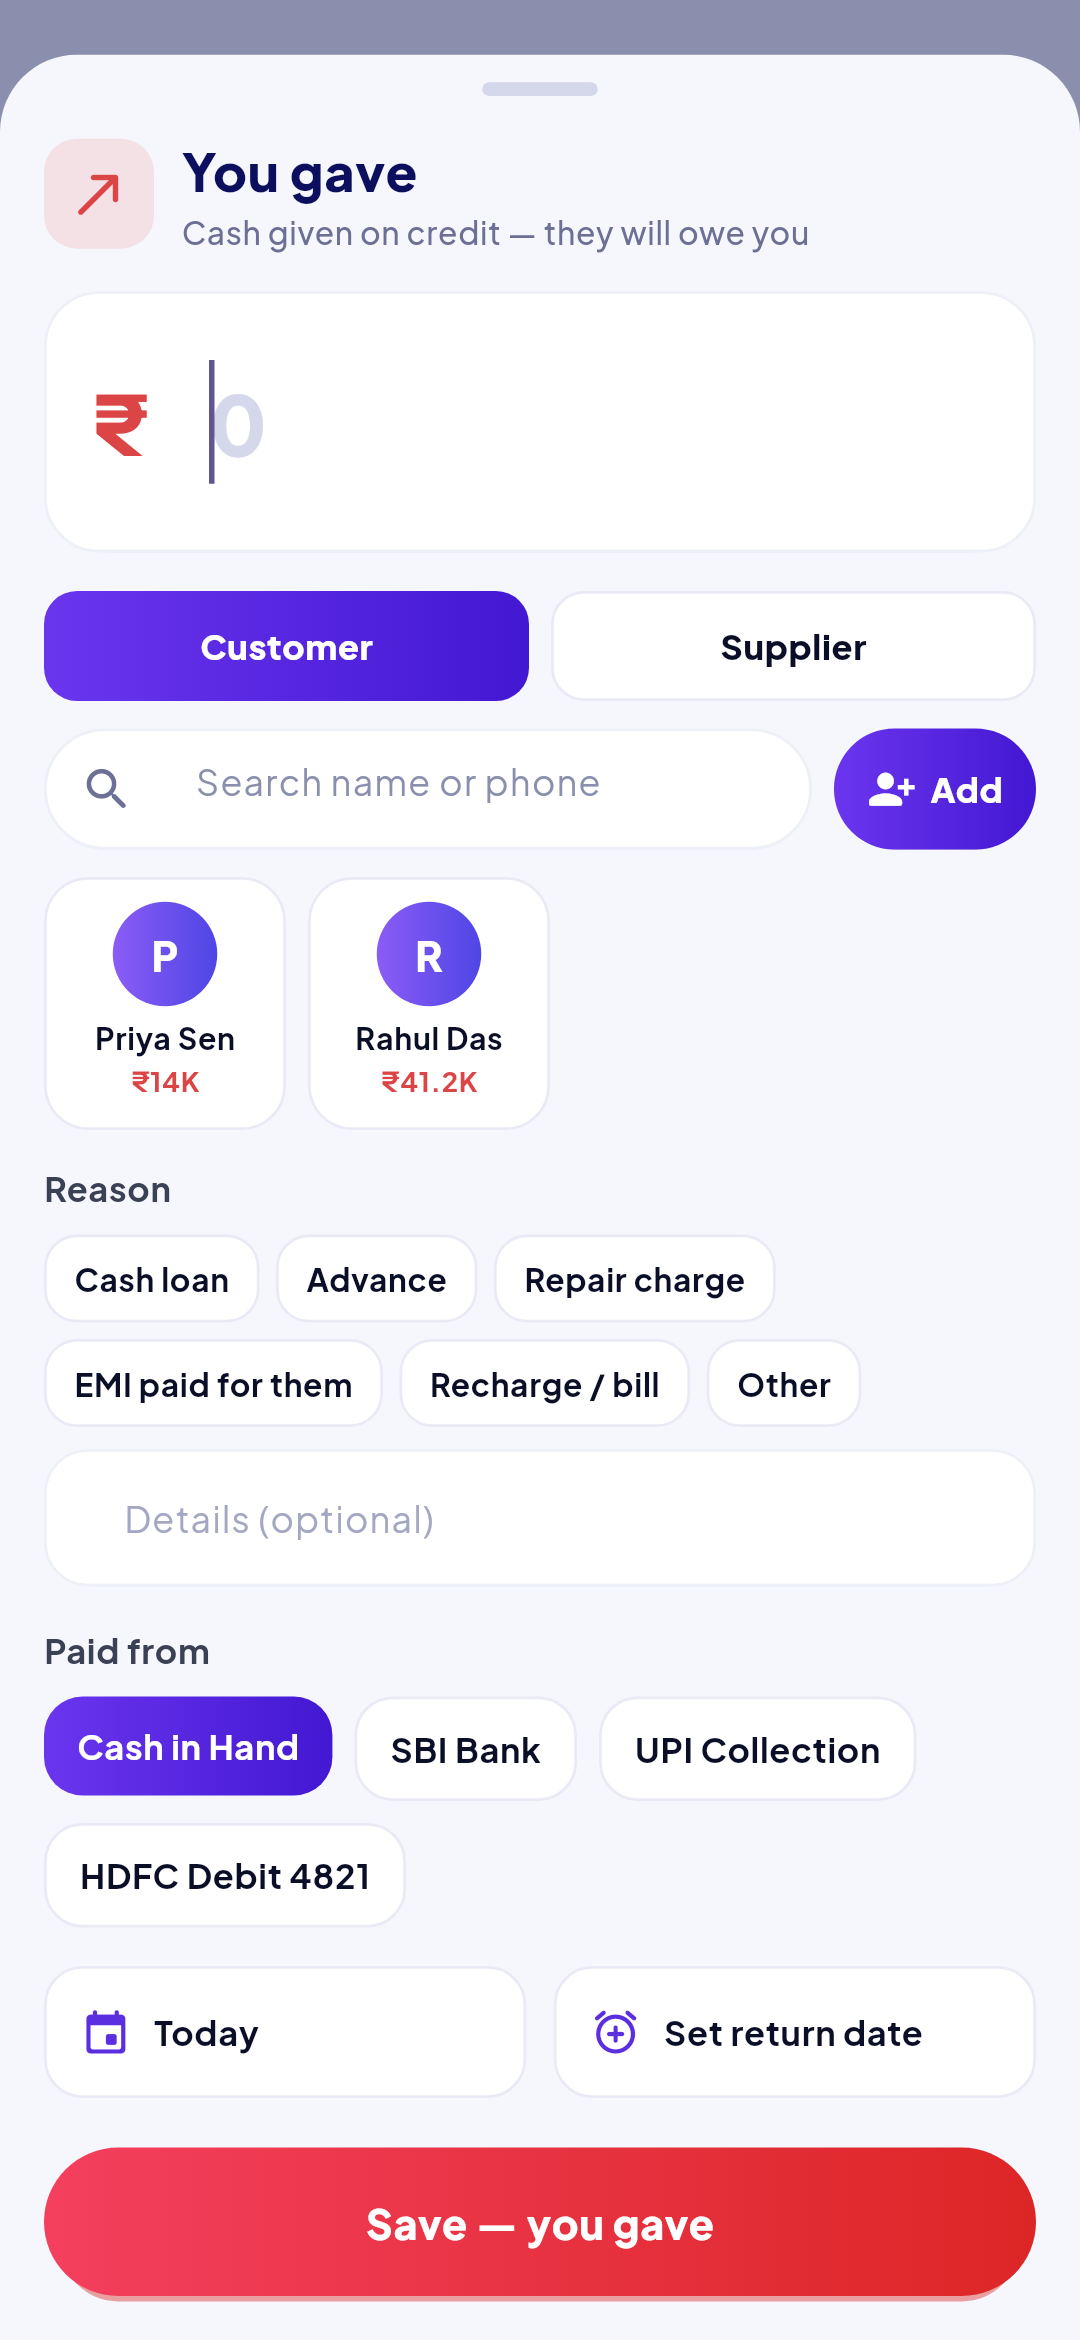
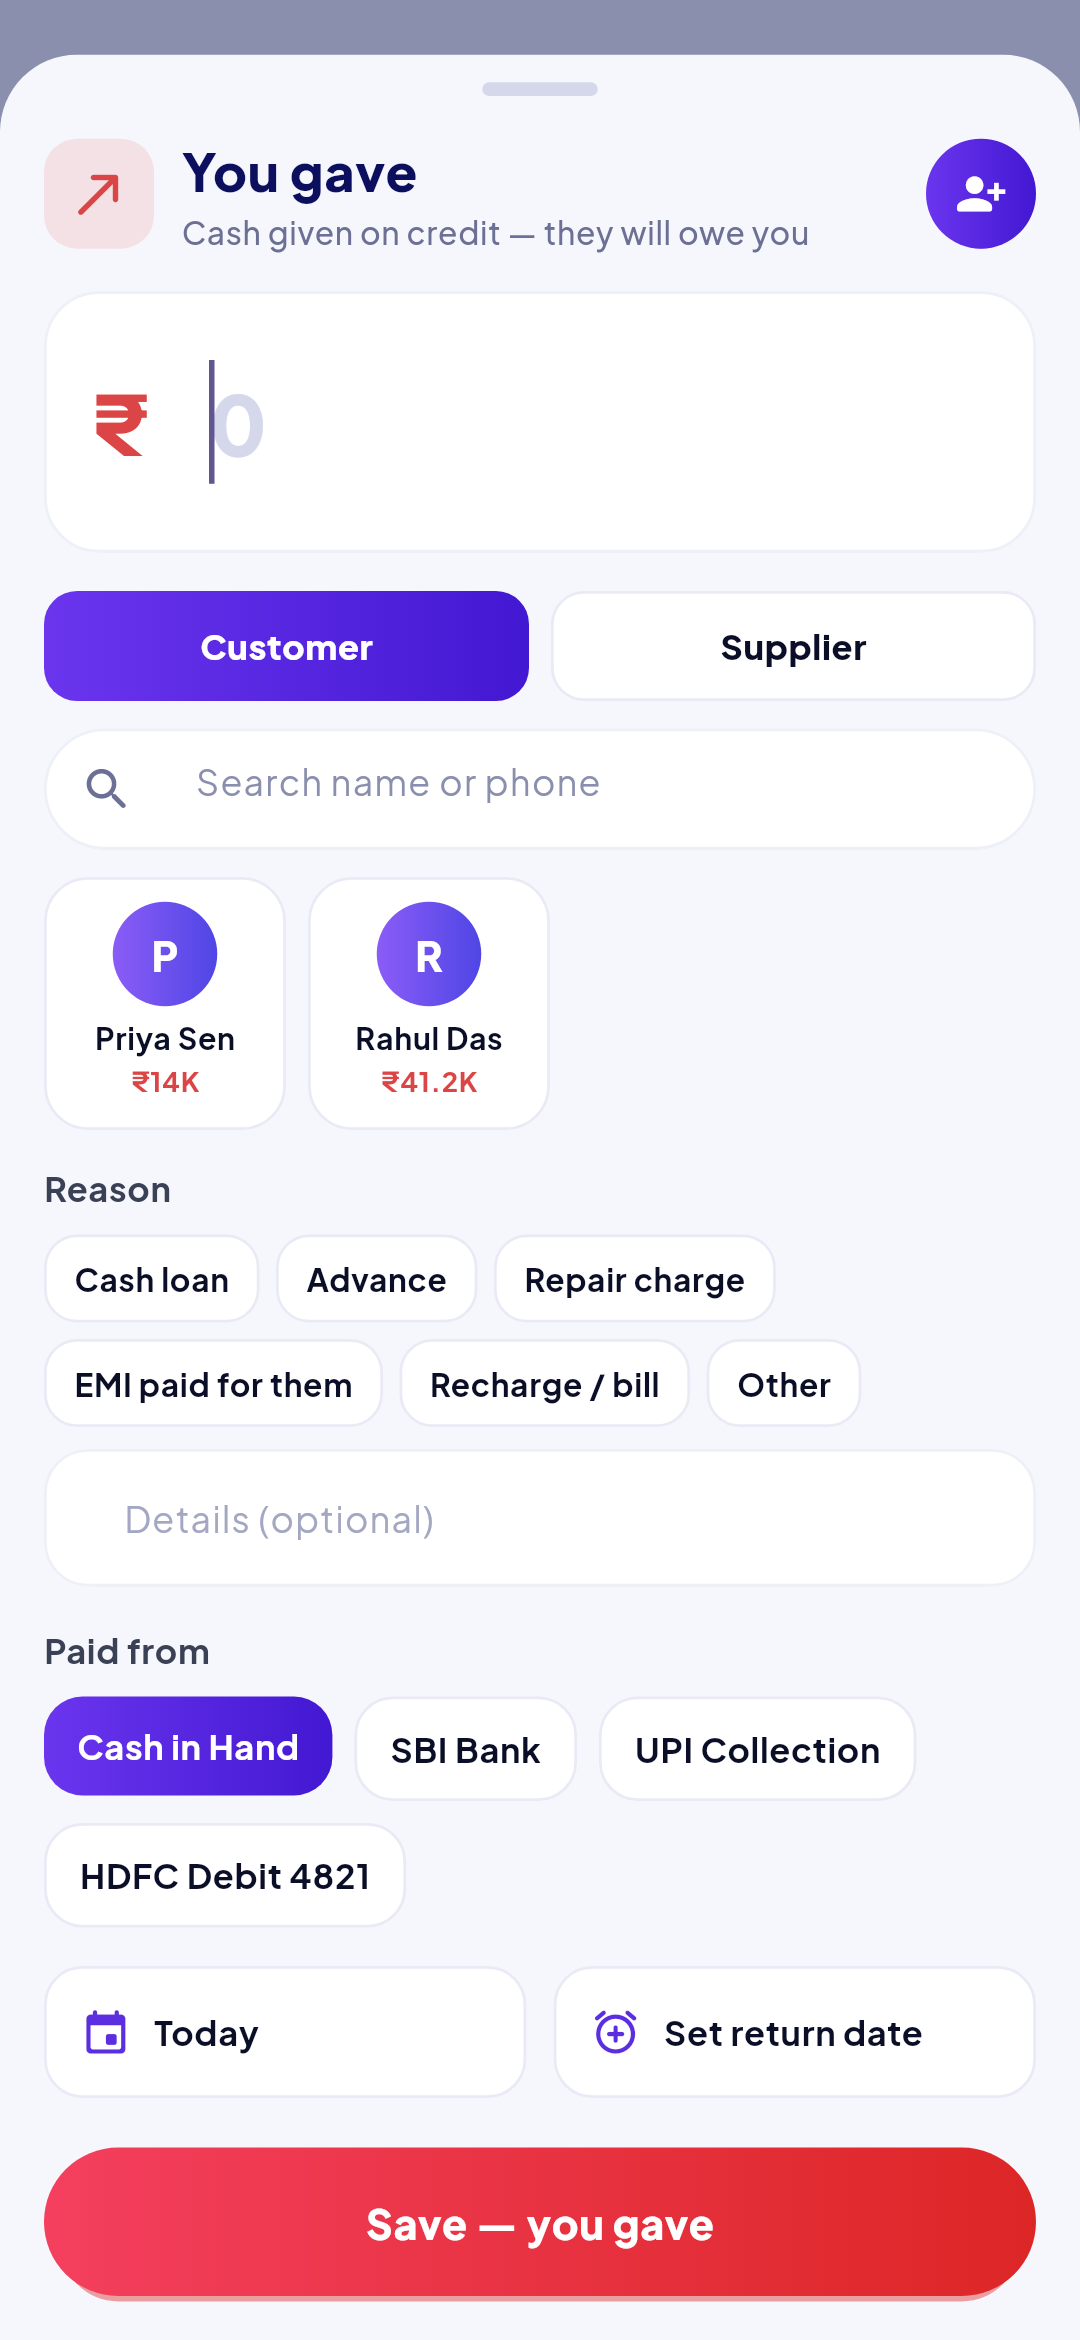
Add customer: small round button at the top right of Khata and You gave / You got; search boxes back to full width
Claude-Session: https://claude.ai/code/session_01TPz7VGxGWhSYt9uz1YHRun

Changed region(s): [[0.7639, 0.312, 0.9778, 0.3744], [0.8556, 0.0624, 0.9778, 0.1248]]

diff --git a/lib/screens/lend_sheet.dart b/lib/screens/lend_sheet.dart
@@ -156,50 +156,17 @@ class _LendSheetState extends State<LendSheet> {
     super.dispose();
   }
 
-  /// Quick add: name + mobile; an existing one with the same name and number
-  /// is picked instead of making a copy.
+  /// Add a customer / supplier without leaving this sheet; it is selected.
   Future<void> _addParty() async {
-    final isC = partyType == 'customer';
-    final name = TextEditingController(text: RegExp(r'\d').hasMatch(q) ? '' : q);
-    final phone = TextEditingController(text: RegExp(r'^[\d\s+]+$').hasMatch(q) ? q : '');
-    final ok = await showDialog<bool>(
-      context: context,
-      builder: (c) => AlertDialog(
-        title: Text(isC ? 'New customer' : 'New supplier'),
-        content: Column(mainAxisSize: MainAxisSize.min, children: [
-          TextField(controller: name, autofocus: true, textCapitalization: TextCapitalization.words, decoration: const InputDecoration(labelText: 'Name')),
-          const SizedBox(height: 8),
-          TextField(controller: phone, keyboardType: TextInputType.phone, decoration: const InputDecoration(labelText: 'Mobile (optional)')),
-        ]),
-        actions: [
-          TextButton(onPressed: () => Navigator.pop(c, false), child: const Text('Cancel')),
-          FilledButton(onPressed: () => Navigator.pop(c, true), child: const Text('Save')),
-        ],
-      ),
-    );
-    final n = name.text.trim(), ph = phone.text.replaceAll(RegExp(r'[^\d+]'), '');
-    name.dispose();
-    phone.dispose();
-    if (ok != true || !mounted) return;
-    if (n.isEmpty) {
-      toast(context, 'Enter the name', error: true);
-      return;
-    }
-    try {
-      final dup = await Books.findDuplicateParty(partyType, n, ph);
-      final id = dup != null ? asInt(dup['id']) : await Books.saveParty(partyType, {'name': n, 'phone': ph.isEmpty ? null : ph});
-      await _load();
-      if (!mounted) return;
-      final shown = dup != null ? '${dup['name']}' : n;
-      setState(() {
-        partyId = id;
-        q = shown; // the new one shows, selected
-        search.text = shown;
-      });
-      toast(context, dup != null ? '${dup['name']} is already added — selected' : '$n added');
-    } catch (e) {
-      if (mounted) toast(context, '$e', error: true);
-    }
+    final r = await quickAddParty(context, partyType, typed: q);
+    if (r == null || !mounted) return;
+    await _load();
+    if (!mounted) return;
+    setState(() {
+      partyId = r.$1;
+      q = r.$2; // the new one shows, selected
+      search.text = r.$2;
+    });
   }
 
   Rec? get _party {
@@ -290,6 +257,7 @@ class _LendSheetState extends State<LendSheet> {
                   Text(gave ? 'Cash given on credit — they will owe you' : 'Cash received — their due goes down', style: _j(11.5, FontWeight.w500, _muted)),
                 ]),
               ),
+              if (widget.partyId == null) AddCustomerButton(onTap: _addParty, tooltip: partyType == 'customer' ? 'Add customer' : 'Add supplier'),
             ]),
             const SizedBox(height: 14),
             _amountField(amount, _color),
@@ -321,54 +289,31 @@ class _LendSheetState extends State<LendSheet> {
                 ],
               ]),
               const SizedBox(height: 10),
-              Row(children: [
-                Expanded(
-                  child: Container(
-                    height: 44,
-                    padding: const EdgeInsets.symmetric(horizontal: 12),
-                    decoration: _card(r: 22),
-                    child: Row(children: [
-                      const Icon(Icons.search_rounded, color: _muted, size: 20),
-                      const SizedBox(width: 8),
-                      Expanded(
-                        child: TextField(
-                          controller: search,
-                          onChanged: (v) => setState(() => q = v.trim()),
-                          style: _j(13.5, FontWeight.w600, _ink),
-                          decoration: InputDecoration(
-                            isCollapsed: true,
-                            filled: false,
-                            border: InputBorder.none,
-                            enabledBorder: InputBorder.none,
-                            focusedBorder: InputBorder.none,
-                            hintText: 'Search name or phone',
-                            hintStyle: _j(13, FontWeight.w400, const Color(0xFF8A8FAD)),
-                          ),
-                        ),
+              Container(
+                height: 44,
+                padding: const EdgeInsets.symmetric(horizontal: 12),
+                decoration: _card(r: 22),
+                child: Row(children: [
+                  const Icon(Icons.search_rounded, color: _muted, size: 20),
+                  const SizedBox(width: 8),
+                  Expanded(
+                    child: TextField(
+                      controller: search,
+                      onChanged: (v) => setState(() => q = v.trim()),
+                      style: _j(13.5, FontWeight.w600, _ink),
+                      decoration: InputDecoration(
+                        isCollapsed: true,
+                        filled: false,
+                        border: InputBorder.none,
+                        enabledBorder: InputBorder.none,
+                        focusedBorder: InputBorder.none,
+                        hintText: 'Search name or phone',
+                        hintStyle: _j(13, FontWeight.w400, const Color(0xFF8A8FAD)),
                       ),
-                    ]),
-                  ),
-                ),
-                const SizedBox(width: 8),
-                // add a new customer / supplier without leaving this sheet
-                GestureDetector(
-                  onTap: _addParty,
-                  child: Container(
-                    height: 44,
-                    padding: const EdgeInsets.symmetric(horizontal: 12),
-                    decoration: BoxDecoration(
-                      borderRadius: BorderRadius.circular(22),
-                      gradient: const LinearGradient(colors: [Color(0xFF6B35EE), Color(0xFF4318D2)]),
-                      boxShadow: const [BoxShadow(color: Color(0x554318D2), blurRadius: 14, offset: Offset(0, 6), spreadRadius: -6)],
                     ),
-                    child: Row(mainAxisSize: MainAxisSize.min, children: [
-                      const Icon(Icons.person_add_alt_1_rounded, color: Colors.white, size: 18),
-                      const SizedBox(width: 5),
-                      Text('Add', style: _j(12.5, FontWeight.w800, Colors.white)),
-                    ]),
                   ),
-                ),
-              ]),
+                ]),
+              ),
               const SizedBox(height: 10),
               SizedBox(
                 height: 92,
@@ -691,5 +636,77 @@ class _DueSheetState extends State<DueSheet> {
         ),
       ),
     );
+  }
+}
+
+/// A small round "add customer" button for page and sheet headers. Without
+/// [onTap] it adds a customer (quick form) from anywhere.
+class AddCustomerButton extends StatelessWidget {
+  final VoidCallback? onTap;
+  final String tooltip;
+  const AddCustomerButton({super.key, this.onTap, this.tooltip = 'Add customer'});
+
+  @override
+  Widget build(BuildContext context) => Tooltip(
+        message: tooltip,
+        child: GestureDetector(
+          onTap: () {
+            HapticFeedback.selectionClick();
+            if (onTap != null) {
+              onTap!();
+            } else {
+              quickAddParty(context, 'customer');
+            }
+          },
+          child: Container(
+            width: 40,
+            height: 40,
+            decoration: const BoxDecoration(
+              shape: BoxShape.circle,
+              gradient: LinearGradient(colors: [Color(0xFF6B35EE), Color(0xFF4318D2)]),
+              boxShadow: [BoxShadow(color: Color(0x554318D2), blurRadius: 12, offset: Offset(0, 5), spreadRadius: -5)],
+            ),
+            child: const Icon(Icons.person_add_alt_1_rounded, color: Colors.white, size: 19),
+          ),
+        ),
+      );
+}
+
+/// Quick add: name + mobile. An existing one with the same name and number is
+/// used instead of a copy. Returns (id, name), or null when cancelled.
+Future<(int, String)?> quickAddParty(BuildContext context, String type, {String typed = ''}) async {
+  final isC = type == 'customer';
+  final name = TextEditingController(text: RegExp(r'\d').hasMatch(typed) ? '' : typed);
+  final phone = TextEditingController(text: RegExp(r'^[\d\s+]+$').hasMatch(typed) ? typed : '');
+  final ok = await showDialog<bool>(
+    context: context,
+    builder: (c) => AlertDialog(
+      title: Text(isC ? 'New customer' : 'New supplier'),
+      content: Column(mainAxisSize: MainAxisSize.min, children: [
+        TextField(controller: name, autofocus: true, textCapitalization: TextCapitalization.words, decoration: const InputDecoration(labelText: 'Name')),
+        const SizedBox(height: 8),
+        TextField(controller: phone, keyboardType: TextInputType.phone, decoration: const InputDecoration(labelText: 'Mobile (optional)')),
+      ]),
+      actions: [
+        TextButton(onPressed: () => Navigator.pop(c, false), child: const Text('Cancel')),
+        FilledButton(onPressed: () => Navigator.pop(c, true), child: const Text('Save')),
+      ],
+    ),
+  );
+  final n = name.text.trim(), ph = phone.text.replaceAll(RegExp(r'[^\d+]'), '');
+  if (ok != true || !context.mounted) return null;
+  if (n.isEmpty) {
+    toast(context, 'Enter the name', error: true);
+    return null;
+  }
+  try {
+    final dup = await Books.findDuplicateParty(type, n, ph);
+    final id = dup != null ? asInt(dup['id']) : await Books.saveParty(type, {'name': n, 'phone': ph.isEmpty ? null : ph});
+    final shown = dup != null ? '${dup['name']}' : n;
+    if (context.mounted) toast(context, dup != null ? '$shown is already added' : '$shown added');
+    return (id, shown);
+  } catch (e) {
+    if (context.mounted) toast(context, '$e', error: true);
+    return null;
   }
 }

diff --git a/lib/screens/ledgers.dart b/lib/screens/ledgers.dart
@@ -152,6 +152,7 @@ class _LedgersScreenState extends State<LedgersScreen> {
                       Text('Credit given & taken — who, when, why', style: _j(12, FontWeight.w600, const Color(0xFF323B60))),
                     ]),
                   ),
+                  const AddCustomerButton(),
                 ]),
                 const SizedBox(height: 14),
                 _hero(d.totals),
@@ -358,59 +359,30 @@ class _LedgersScreenState extends State<LedgersScreen> {
     }
     return [
       if (d.dues.isNotEmpty) ...[_duesStrip(d.dues), const SizedBox(height: 14)],
-      Row(children: [
-        Expanded(
-          child: Container(
-            height: 48,
-            decoration: _card(r: 24),
-            padding: const EdgeInsets.symmetric(horizontal: 14),
-            child: Row(children: [
-              const Icon(Icons.search_rounded, color: Color(0xFF2C3B8F)),
-              const SizedBox(width: 10),
-              Expanded(
-                child: TextField(
-                  onChanged: (v) => setState(() => q = v.trim()),
-                  style: _j(14, FontWeight.w600, _ink),
-                  decoration: InputDecoration(
-                    isCollapsed: true,
-                    filled: false,
-                    border: InputBorder.none,
-                    enabledBorder: InputBorder.none,
-                    focusedBorder: InputBorder.none,
-                    hintText: 'Search name, reason, product, invoice',
-                    hintStyle: _j(13.5, FontWeight.w400, const Color(0xFF8A8FAD)),
-                  ),
-                ),
+      Container(
+        height: 48,
+        decoration: _card(r: 24),
+        padding: const EdgeInsets.symmetric(horizontal: 14),
+        child: Row(children: [
+          const Icon(Icons.search_rounded, color: Color(0xFF2C3B8F)),
+          const SizedBox(width: 10),
+          Expanded(
+            child: TextField(
+              onChanged: (v) => setState(() => q = v.trim()),
+              style: _j(14, FontWeight.w600, _ink),
+              decoration: InputDecoration(
+                isCollapsed: true,
+                filled: false,
+                border: InputBorder.none,
+                enabledBorder: InputBorder.none,
+                focusedBorder: InputBorder.none,
+                hintText: 'Search name, reason, product, invoice',
+                hintStyle: _j(13.5, FontWeight.w400, const Color(0xFF8A8FAD)),
               ),
-            ]),
-          ),
-        ),
-        const SizedBox(width: 10),
-        // add a customer right here
-        Tooltip(
-          message: 'Add customer',
-          child: GestureDetector(
-            onTap: () {
-              HapticFeedback.selectionClick();
-              open(context, const PartyForm(type: 'customer'));
-            },
-            child: Container(
-              height: 48,
-              padding: const EdgeInsets.symmetric(horizontal: 14),
-              decoration: BoxDecoration(
-                borderRadius: BorderRadius.circular(24),
-                gradient: const LinearGradient(colors: [Color(0xFF6B35EE), Color(0xFF4318D2)]),
-                boxShadow: const [BoxShadow(color: Color(0x664318D2), blurRadius: 16, offset: Offset(0, 6), spreadRadius: -6)],
-              ),
-              child: Row(mainAxisSize: MainAxisSize.min, children: [
-                const Icon(Icons.person_add_alt_1_rounded, color: Colors.white, size: 20),
-                const SizedBox(width: 6),
-                Text('Customer', style: _j(13, FontWeight.w800, Colors.white)),
-              ]),
             ),
           ),
-        ),
-      ]),
+        ]),
+      ),
       const SizedBox(height: 10),
       SingleChildScrollView(
         scrollDirection: Axis.horizontal,
